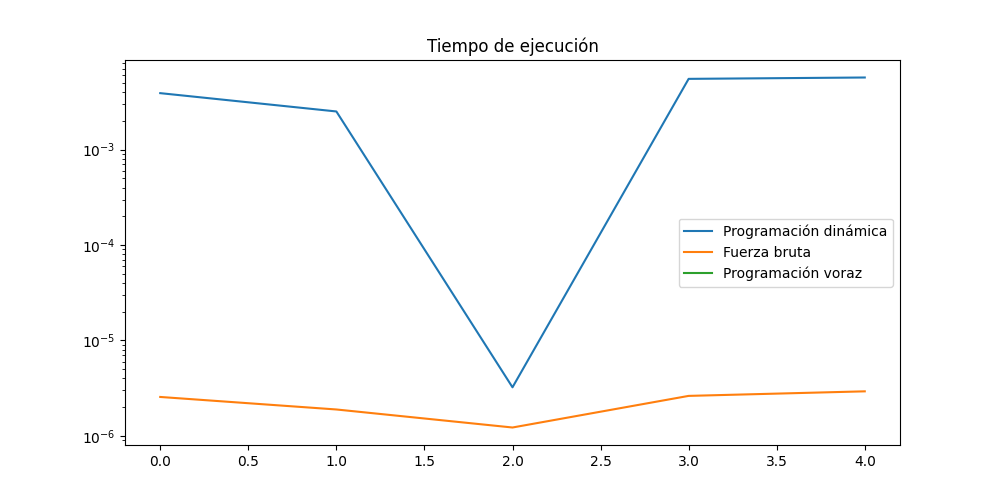
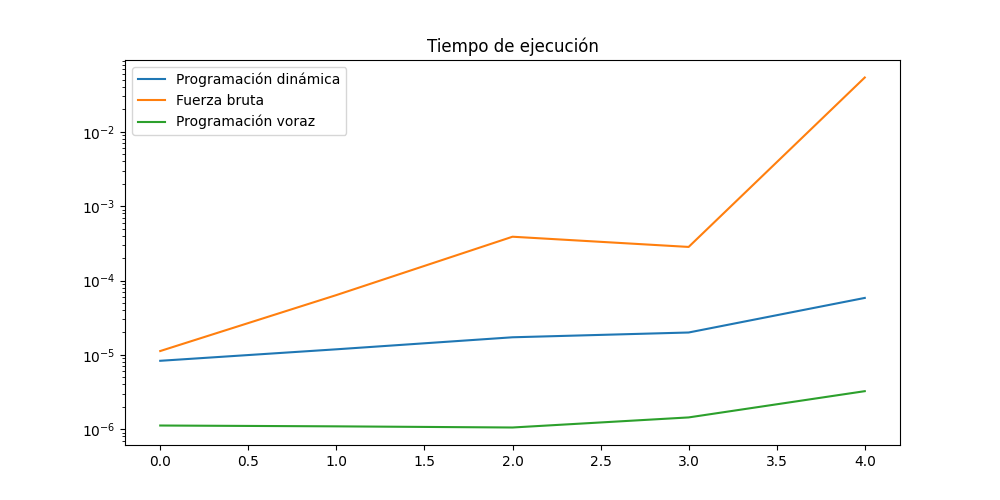
cambios3

diff --git a/Subasta_publica/test_subastaVoraz.py b/Subasta_publica/test_subastaVoraz.py
@@ -1,51 +1,60 @@
 import unittest
 from voraz import subasta_voraz
 
-class TestSubastaOptima(unittest.TestCase):
+class TestSubastaVoraz(unittest.TestCase):
     def test_single_offer(self):
         A = 1000
         B = 100
         n = 1
         ofertas = [(500, 100, 600), (100, 0, 1000)]
-        max_beneficio, asignacion = subasta_voraz(A, B, n, ofertas)
-        self.assertEqual(asignacion, [600,400])
-        self.assertEqual(max_beneficio, 340000)
+        asignacion, valor_total = subasta_voraz(A, B, n, ofertas)
+        self.assertEqual(asignacion.tolist(), [600, 400])
+        self.assertEqual(valor_total, 340000)
 
     def test_multiple_offers(self):
         A = 1000
         B = 100
         n = 2
-        ofertas = [(500,100, 600), (450, 400, 800), (100, 0, 1000)]
-        max_beneficio, asignacion = subasta_voraz(A, B, n, ofertas)
-        self.assertEqual(asignacion, [600,400, 0])
-        self.assertEqual(max_beneficio, 480000)
+        ofertas = [(500, 100, 600), (450, 400, 800), (100, 0, 1000)]
+        asignacion, valor_total = subasta_voraz(A, B, n, ofertas)
+        self.assertEqual(asignacion.tolist(), [600, 400, 0])
+        self.assertEqual(valor_total, 480000)
 
     def test_no_offers(self):
         A = 1000
         B = 100
         n = 0
-        ofertas = [(100,0,1000)]
-        max_beneficio, asignacion = subasta_voraz(A, B, n, ofertas)
-        self.assertEqual(asignacion, [1000])
-        self.assertEqual(max_beneficio, 100000)
+        ofertas = [(100, 0, 1000)]
+        asignacion, valor_total = subasta_voraz(A, B, n, ofertas)
+        self.assertEqual(asignacion.tolist(), [1000])
+        self.assertEqual(valor_total, 100000)
 
     def test_partial_assignment(self):
         A = 1000
         B = 100
         n = 3
-        ofertas = [(500, 100, 600), (450, 400, 800), (300,100,300), (100, 0, 1000)]
-        max_beneficio, asignacion = subasta_voraz(A, B, n, ofertas)
-        self.assertEqual(asignacion, [600, 400, 0, 0])
-        self.assertEqual(max_beneficio,480000)
+        ofertas = [(500, 100, 600), (450, 400, 800), (300, 100, 300), (100, 0, 1000)]
+        asignacion, valor_total = subasta_voraz(A, B, n, ofertas)
+        self.assertEqual(asignacion.tolist(), [600, 400, 0, 0])
+        self.assertEqual(valor_total, 480000)
 
     def test_exact_assignment(self):
         A = 1000
         B = 100
         n = 3
         ofertas = [(500, 400, 600), (100, 400, 800), (200, 100, 700), (100, 0, 1000)]
-        max_beneficio, asignacion = subasta_voraz(A, B, n, ofertas)
-        self.assertEqual(asignacion, [600, 0, 400, 0])
-        self.assertEqual(max_beneficio, 380000)
+        asignacion, valor_total = subasta_voraz(A, B, n, ofertas)
+        self.assertEqual(asignacion.tolist(), [600, 0, 400, 0])
+        self.assertEqual(valor_total, 380000)
+
+    def test_no_assignment(self):
+        A = 1000
+        B = 100
+        n = 4
+        ofertas = [(500, 100, 600), (450, 400, 800), (300, 100, 300), (200, 100, 700), (100, 0, 1000)]
+        asignacion, valor_total = subasta_voraz(A, B, n, ofertas)
+        self.assertEqual(asignacion.tolist(), [600, 400, 0, 0, 0])
+        self.assertEqual(valor_total, 480000)
 
 if __name__ == '__main__':
     unittest.main()

diff --git a/Tiempo_ejecucion.py b/Tiempo_ejecucion.py
@@ -61,11 +61,12 @@ def tiempos_terminal_inteligente():
 
 def tiempo_subasta():
     casos = [
-        (1000, 100, 2 , [(500, 100, 600), (450, 400, 800), (100, 0, 1000)]),
-        (1000, 100, 1, [(500, 100, 600), (100, 0, 1000)]),
         (1000, 100, 0, [(100, 0, 1000)]),
+        (1000, 100, 1, [(500, 100, 600), (100, 0, 1000)]),
+        (1000, 100, 2 , [(500, 100, 600), (450, 400, 800), (100, 0, 1000)]),
         (1000, 100, 3, [(500, 100, 600), (450, 400, 800), (300, 100, 300), (100, 0, 1000)]),
         (1000, 100, 3, [(500, 400, 600), (100, 400, 800), (200, 100, 700), (100, 0, 1000)]),
+        (1000, 100, 4 , [(500, 100, 600), (450, 400, 800), (300, 100, 300), (200, 100, 700), (100, 0, 1000)]),
         ]
     
     tiempos = [[], [], []]
@@ -79,7 +80,8 @@ def tiempo_subasta():
 
     graficar(tiempos)
     guardar_tiempos(tiempos, ["Subasta_dinamica", "Subasta_voraz"])
-       
+  
 if __name__ == "__main__":
     tiempos_terminal_inteligente()
-    tiempo_subasta()
+    ##tiempo_subasta()
+

diff --git a/Subasta_publica/test_subastaDinamica.py b/Subasta_publica/test_subastaDinamica.py
@@ -47,5 +47,14 @@ class TestSubastaOptima(unittest.TestCase):
         self.assertEqual(asignacion, [600, 0, 400, 0])
         self.assertEqual(max_beneficio, 380000)
 
+    def test_no_assignment(self):
+        A = 1000
+        B = 100
+        n = 4
+        ofertas = [(500, 100, 600), (450, 400, 800), (300, 100, 300), (200, 100, 700), (100, 0, 1000)]
+        max_beneficio, asignacion = subasta_dp(A, B, n, ofertas)
+        self.assertEqual(asignacion, [600, 400, 0, 0, 0])
+        self.assertEqual(max_beneficio, 480000)
+        
 if __name__ == '__main__':
     unittest.main()

diff --git a/Subasta_publica/voraz.py b/Subasta_publica/voraz.py
@@ -25,3 +25,4 @@ def subasta_voraz(A, B, n, ofertas):
         acciones_restantes -= cantidad_asignar
 
     return asignacion_optima, valor_total
+
